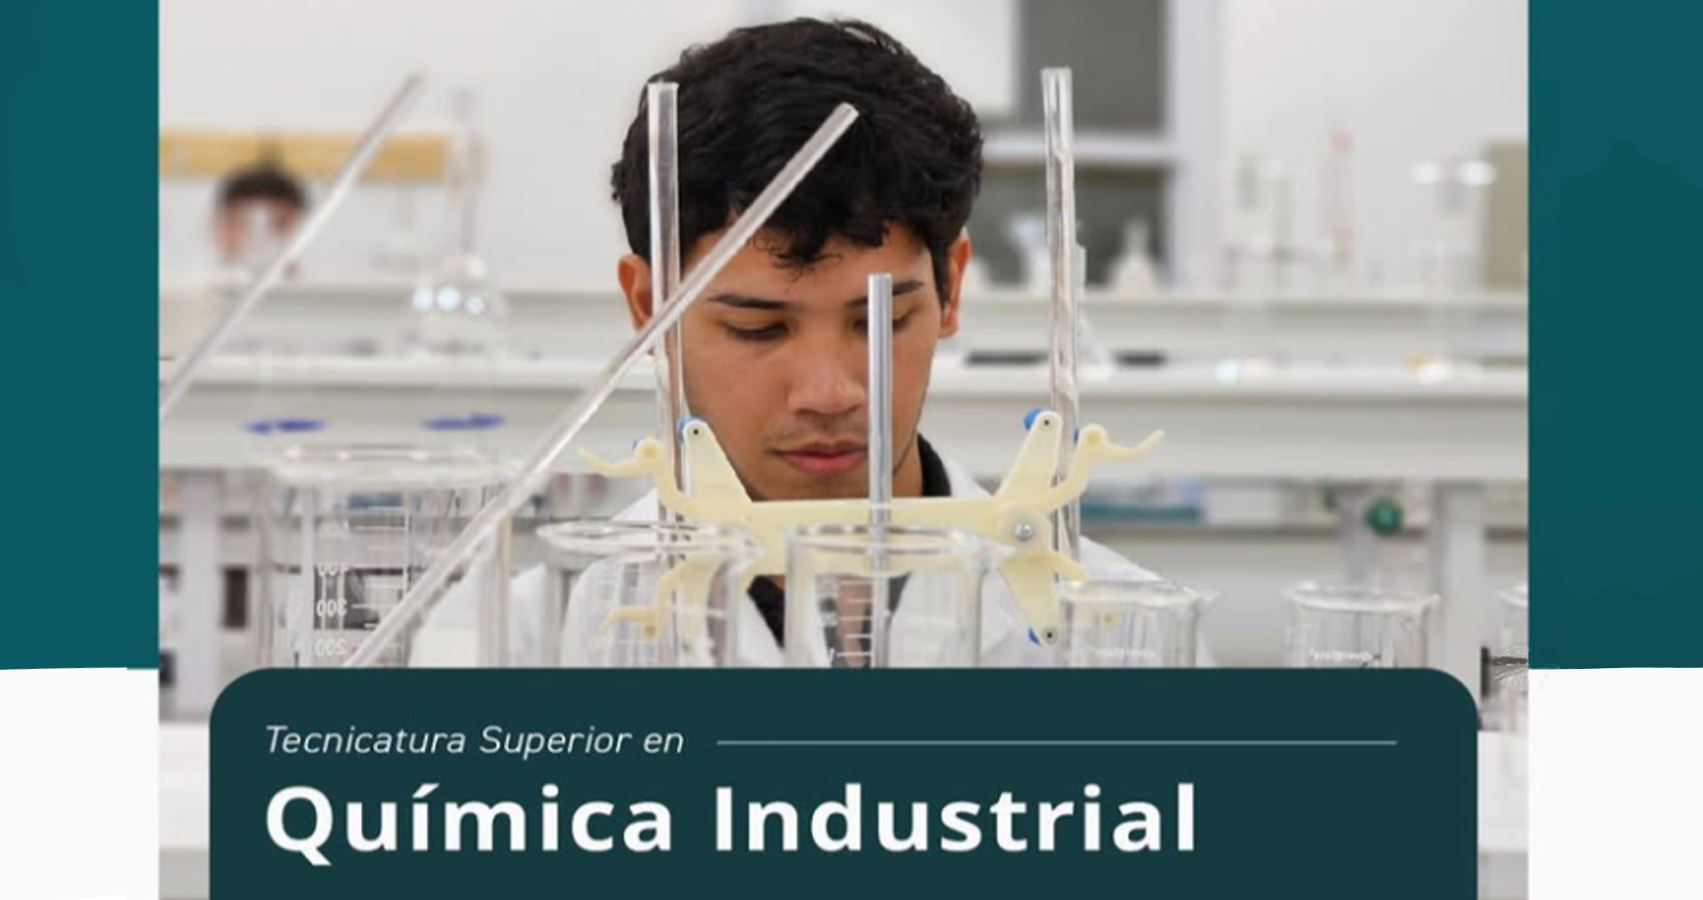
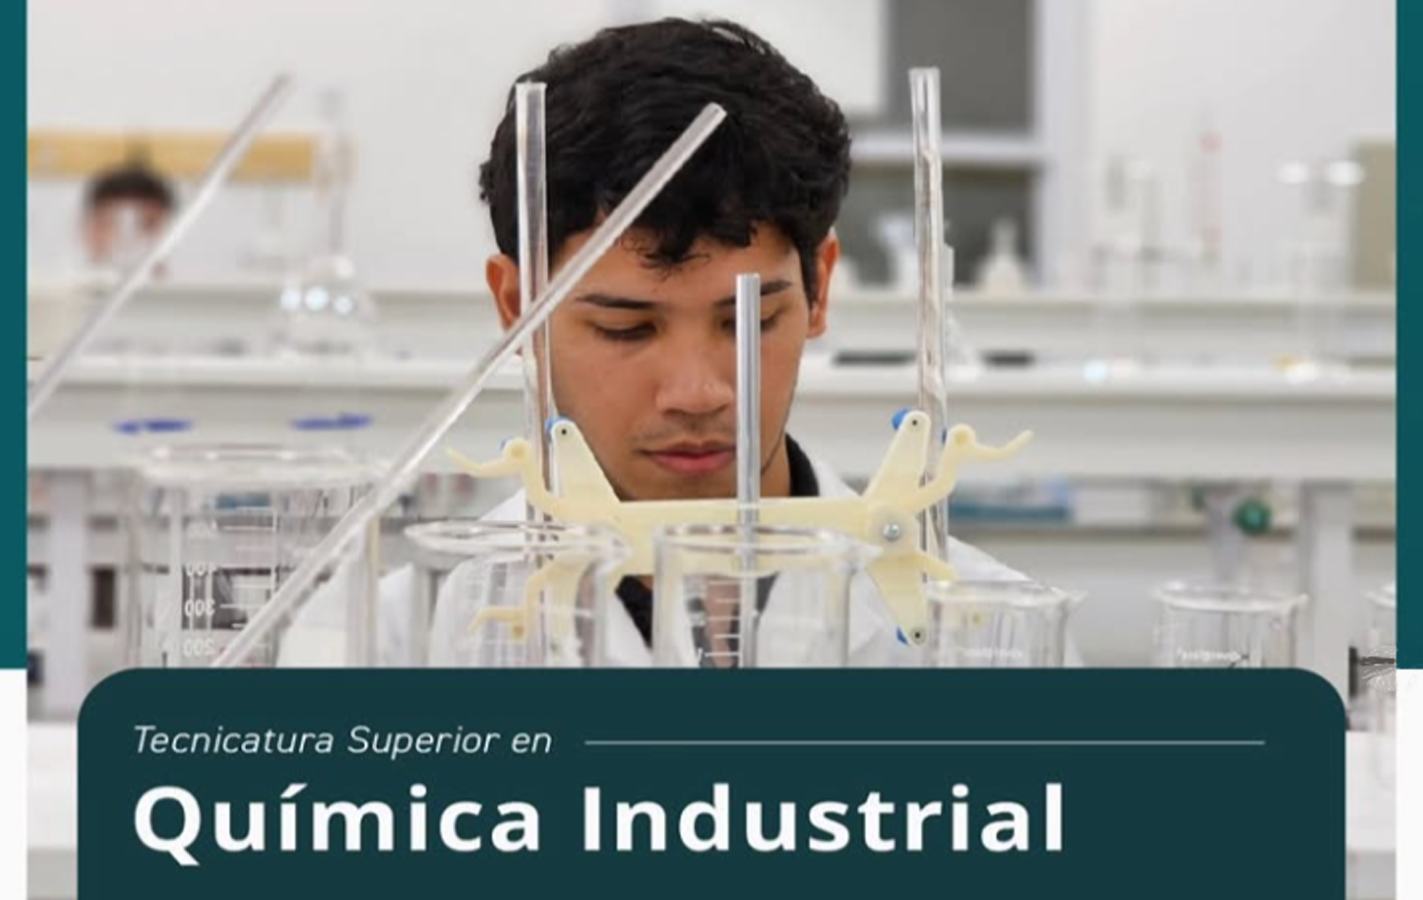
se ajustó la imagen y el <footer> en el archivo <quimica-industrial>

diff --git a/quimica-industrial.html b/quimica-industrial.html
@@ -105,11 +105,12 @@
           <div class="img-quimica-industrial mt-4">
             <img
               src="assets/img-carreras/quimica-industrial.png"
+              width="1300px"
+              height="900px"
               alt="quimica-industrial"
             />
           </div>
         </section>
-
         <section>
           <div class="container">
             <div class="row">
@@ -138,7 +139,7 @@
                 </div>
               </div>
               <div class="col-md-7 mt-5">
-                <div class="fondo_texto p-4 mb-5">
+                <div class="fondo_texto p-4 mb-5 mt-2">
                   <h1>Te preparamos para</h1>
                   <ul>
                     <li>
@@ -220,8 +221,8 @@
           </div>
         </section>
       </main>
-      <footer class="py-5">
-        <div class="container">
+      <div class="container">
+        <footer class="py-5">
           <div class="row text-center">
             <div class="col-6 col-md-4 mb-2 mx-auto">
               <h5>Carreras</h5>
@@ -345,8 +346,8 @@
               </li>
             </ul>
           </div>
-        </div>
-      </footer>
+        </footer>
+      </div>
       <script
         src="https://cdn.jsdelivr.net/npm/bootstrap@5.3.8/dist/js/bootstrap.bundle.min.js"
         integrity="sha384-FKyoEForCGlyvwx9Hj09JcYn3nv7wiPVlz7YYwJrWVcXK/BmnVDxM+D2scQbITxI"

diff --git a/assets/css/style-quimica.css b/assets/css/style-quimica.css
@@ -18,8 +18,8 @@ body {
 .img-quimica-industrial {
   background-color: rgba(0, 0, 0, 0.8);
   background-image: url("../img-carreras/quimica-industrial.png");
-  height: 900px;
-  max-width: 100%;
+  width: 600px;
+  margin-left: 199px;
   filter: brightness(0.4);
 }
 
@@ -33,5 +33,5 @@ footer {
 }
 
 li {
-  list-style: none;
+  text-decoration: none;
 }
